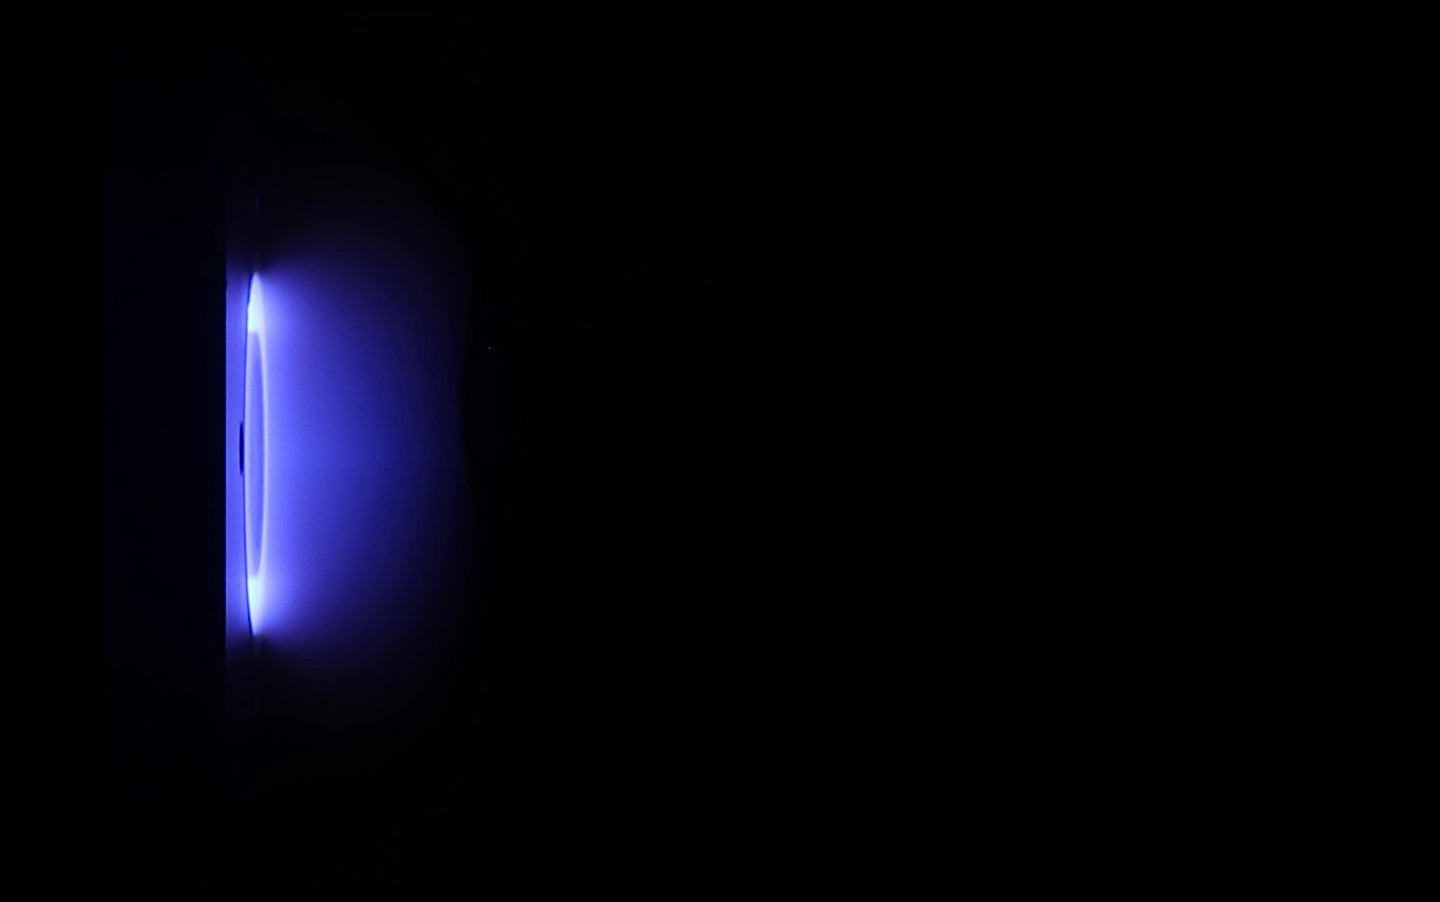
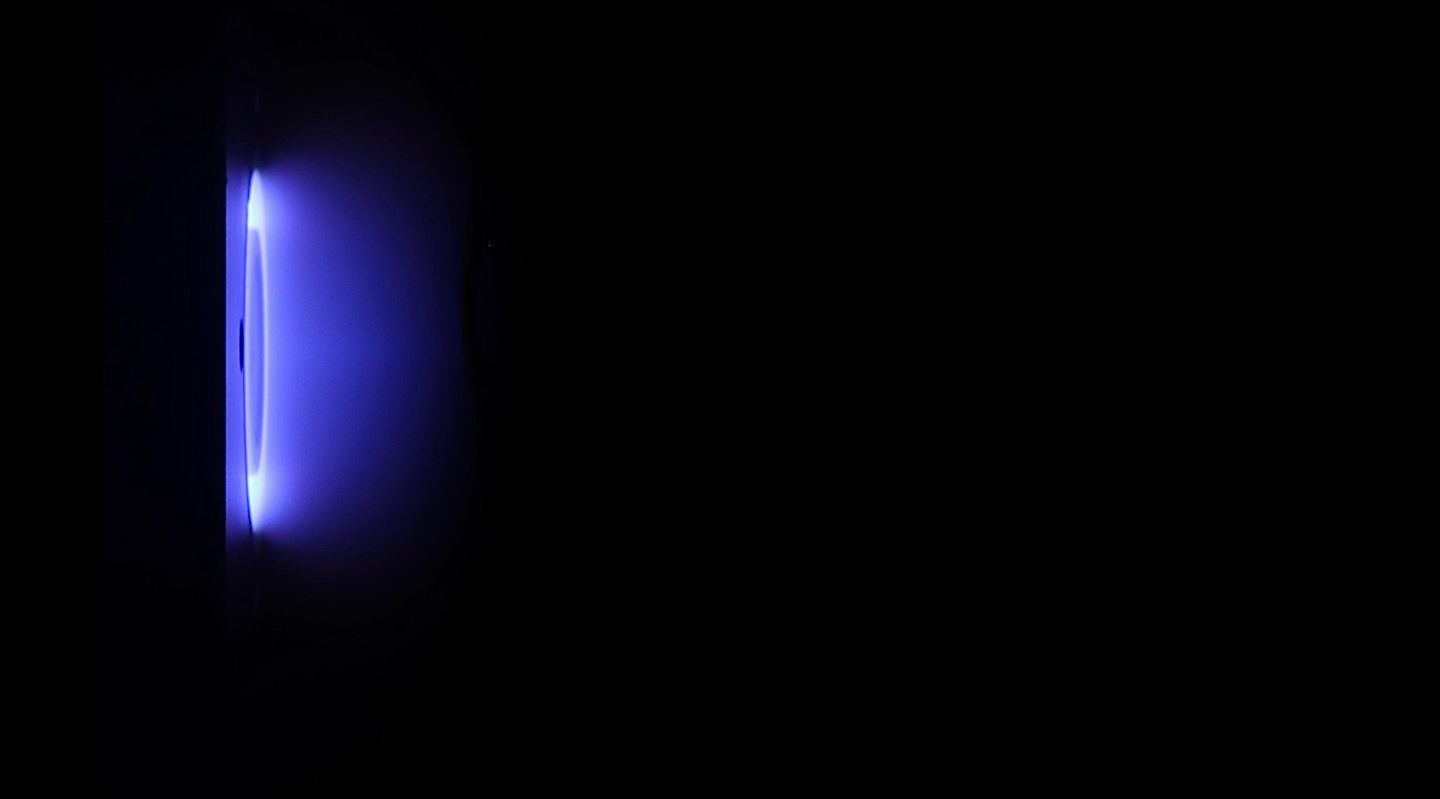
Fix repeating background image when zooming out

Changed region(s): [[0.1562, 0.1502, 0.3125, 0.4506], [0.1562, 0.4806, 0.2812, 0.7509]]

diff --git a/styles.css b/styles.css
@@ -114,6 +114,9 @@ footer {
 @media (min-width: 600px) {
   body {
     background-image: url("img/background_img.png"); /* Background image for wider screens */
+    background-repeat: no-repeat;
+    background-size: cover;
+    background-position: top center;
     overflow-y: hidden;
   }
   .container {
